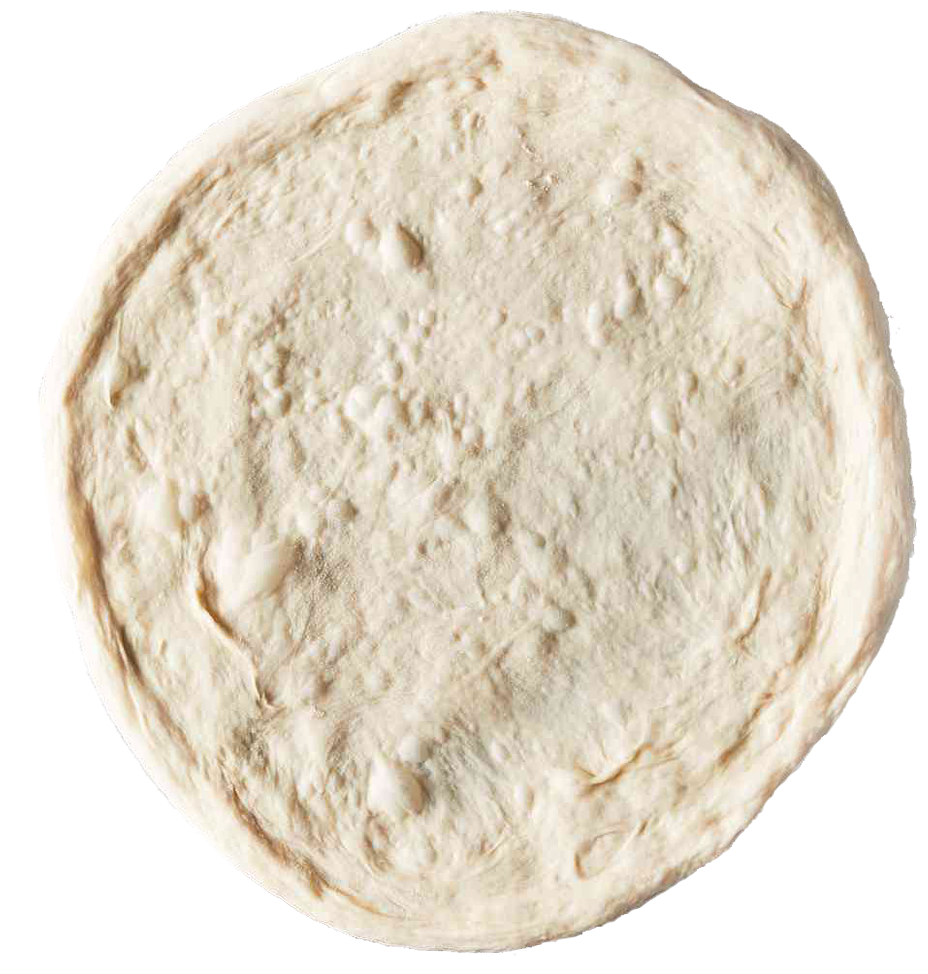
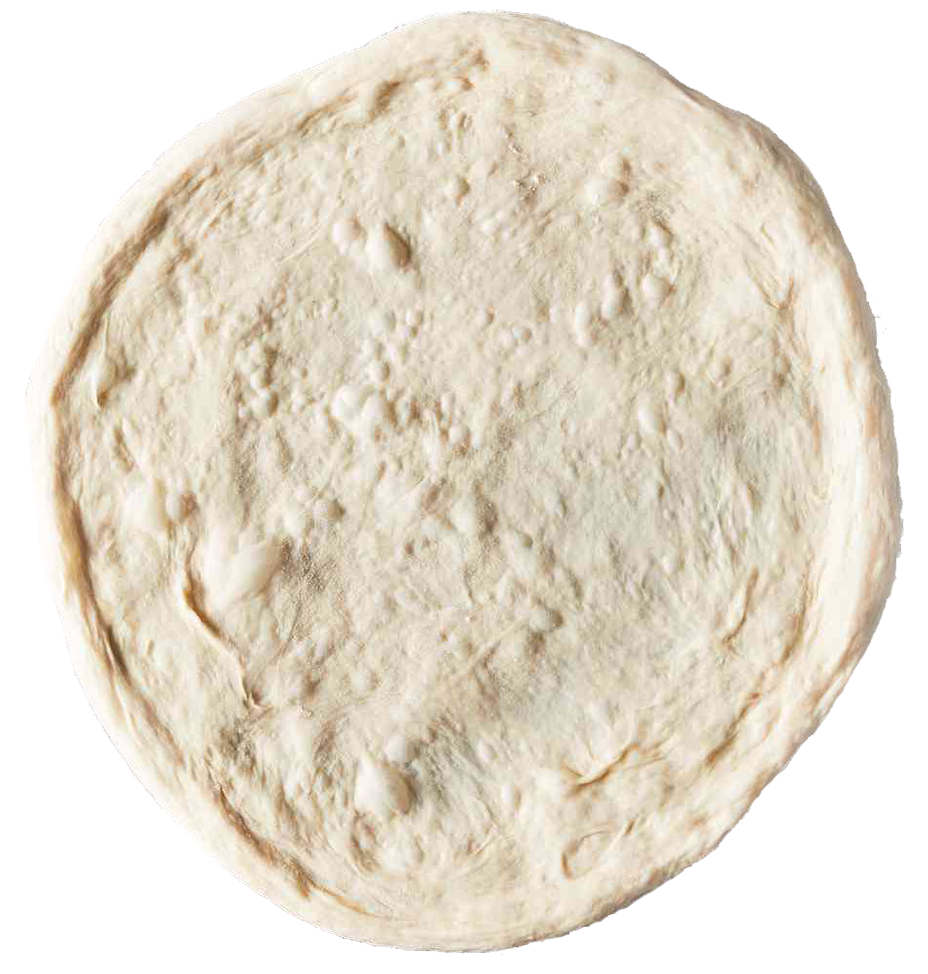
Added more toppings

Changed region(s): [[0.0312, 0.0, 1.0, 0.9856]]

diff --git a/assignment3/style.css b/assignment3/style.css
@@ -1,14 +1,12 @@
 :root {
-    --primary-bg-color: #ffffff;
-    --text-color: #000000;
-    --main-bg-color: #fdf0d8;
+    --text-color: #141414;
+    --main-bg-color: #FAF3E0;
     --main-text-color: #141414;
-    --main-btn-bg-color: #fff;
+    --btn-interact-text-color: #ffffff;
   }
 
-body {
+body {  
   background-color: var(--main-bg-color);
-  
 }
 
 body,
@@ -16,17 +14,16 @@ h1,
 h2,
 p {
   color: var(--text-color);
-  
-  font-family: Arial, Helvetica, sans-serif;
+  font-family: "Roboto", sans-serif;
 }
 
 header { /* Header styling */
   color: var(--main-text-color);
   font-family: 'Franklin Gothic Medium', 'Arial Narrow', Arial, sans-serif;
   font-weight: bolder;
-  font-size: 14px;
+  font-size: 16px;
   padding: 10px 0;
-  margin-bottom: 20px;
+  margin-bottom: 120px;
   letter-spacing: 12px;
   text-align: center;
 }
@@ -35,12 +32,12 @@ h1 {
   font-family: "Rock Salt", cursive;
   font-weight: 500;
   text-align: center;
-  font-size: 36px;
+  font-size: 66px;
 }
 
 h2 {
   font-size: 22px;
-  padding-top: 50px;
+  margin: 80px 0 10px;
   font-weight: bold;
   text-align: center;
 }
@@ -58,11 +55,11 @@ p {
 
 /* Styling for the base size price display */
 .price {
-  font-size: 1.5rem; 
   color: var(--main-text-color); 
   margin: 10px 0; /* Spacing above and below */
-  font-family: 'Koh Santepheap', sans-serif; 
+  font-family: "Roboto", sans-serif;
   text-align: center; 
+  font-weight: 400;
 }
 
 /* Styling for the total price including toppings */
@@ -70,30 +67,35 @@ p {
   font-size: 1.5rem;
   font-weight: bold;
   margin-top: 20px;
-  color: #333;
+  color: var(--main-text-color);
   text-align: center;
 }
 
 /* Size button styling */
 .size-button {
-  /* Width/height will be whatever the size in the buttons class is */
   width: var(--size); 
   height: var(--size);
   display: flex; /* Flexbox for centering text if needed */
-  align-items: center; /* Center vertically */
-  justify-content: center; /* Center horizontally */
+  align-items: center; /* Center numbers vertically */
+  justify-content: center; /* Center numbers horizontally */
   border-radius: 50%; /* Make it circular */
-  background-color: #f5f5f5; /* Background color */
-  margin: 10px; /* Add some space between buttons */
+  background-color: var(--main-bg-color); 
   cursor: pointer; /* Pointer cursor on hover */
   transition: background-color 0.3s; /* Smooth hover transition */
+  border: 4px solid #c29e7e; 
+  font-weight: bolder;
 }
 
-.size-button:hover {
-  background-color: #ece8a5; /* Change background on hover */
+.size-button:hover { /* Change styling on hover */
+  background-color: #7b967c; 
+  color: var(--btn-interact-text-color);
 }
 
-/* Size variations using custom properties */
+.size-button.selected { /* Change styling on click */
+  background-color: #b93742; 
+  color: var(--btn-interact-text-color);
+}
+
 .size-button.twelve {
   --size: 86px;
 }
@@ -111,11 +113,24 @@ p {
 }
 
 /* Trash/Checkout buttons */
+.price-container {
+  display: flex;              /* Use Flexbox for layout */
+  justify-content: space-between;  /* Distribute space between items */
+  align-items: center;       /* Center items vertically */
+  margin: 20px;             /* Add some margin if needed */
+}
+
+.total-price {
+  font-size: 24px;          /* Adjust font size for the total price */
+  font-weight: bold;        /* Make the total price bold */
+  margin: 0 20px;          /* Add margin on sides if needed */
+}
+
 .button-container {
   display: flex;
   justify-content: center; /* Buttons are centred on page */
   align-items: center; /* Buttons are aligned so their centrepoints are inline */
-  gap: 10px; /* Space between buttons */
+  gap: 5px; /* Space between buttons */
 }
 
 .button-container button {
@@ -130,14 +145,10 @@ p {
 }
 
 .centered-image { /* Creates a container for the text so that it can be aligned left but only as far as the width of the image*/
-    max-width: 700px; /* Width of image will not exceed 1000px. The image will be 800px as long as the screen width permits */ 
-    width: 100%; /* Width of image will always fit the width of the webpage in the case of a narrower screen width */ 
-    margin: 0 auto; /* Centres the image */ 
-    display: block;
-}
-
-.topping-thumbnails {
-  width: 10px;
+  max-width: 700px; /* Width of image will not exceed 1000px. The image will be 800px as long as the screen width permits */ 
+  width: 100%; /* Width of image will always fit the width of the webpage in the case of a narrower screen width */ 
+  margin: 0 auto; /* Centres the image */ 
+  display: block;
 }
 
 .topping-item {
@@ -169,13 +180,12 @@ p {
   display: flex;
   gap: 10px; /* Space between thumbnails */
   margin-bottom: 20px; /* Space below thumbnails */
-  justify-content: center; /* Center align if desired */
+  justify-content: center; 
 }
 
 /* Style for each thumbnail image */
 #topping-thumbnails img {
-  width: 50px; /* Small size for thumbnails */
-  height: auto; /* Maintain aspect ratio */
+  height: 60px; /* Small size for thumbnails */
   cursor: pointer; /* Change cursor on hover */
 }
 
@@ -189,7 +199,7 @@ p {
 /* Styles for the pizza dough container */
 #pizza-dough {
   position: relative;
-  width: 700px; /* Adjust width to fit the display */
+  max-width: 700px; /* Adjust width to fit the display */
   margin: 20px auto;
 }
 
@@ -216,12 +226,11 @@ p {
   pointer-events: none; /* Prevent interaction once dropped */
 }
 
-
 #checkout-button {
   display: block;
   margin: 20px auto;
   padding: 10px 20px;
-  background-color: #aa0c7b;
+  background-color: #085f2c;
   color: white;
   border: none;
   border-radius: 5px;
@@ -235,7 +244,7 @@ p {
   height: auto;
 }
 
-/* Modal styles */
+/* Styling for checkout popup */
 .modal {
   display: none; /* Hidden by default */
   position: fixed;
@@ -249,7 +258,7 @@ p {
 
 .modal-content {
   background-color: #fefefe;
-  margin: 15% auto; /* Centered vertically */
+  margin: 30% auto; /* Centered vertically */
   padding: 20px;
   border: 1px solid #888;
   width: 80%; /* Width of the modal */
@@ -271,4 +280,3 @@ p {
   text-decoration: none;
   cursor: pointer;
 }
-

diff --git a/assignment3/index.html b/assignment3/index.html
@@ -10,19 +10,21 @@
     <link rel="stylesheet" href="style.css" />
     <script src="script.js" defer></script>
 
+    <!-- Connecting google fonts -->
     <link rel="preconnect" href="https://fonts.googleapis.com">
     <link rel="preconnect" href="https://fonts.gstatic.com" crossorigin>
     <link href="https://fonts.googleapis.com/css2?family=Koh+Santepheap:wght@100;300;400;700;900&family=Rock+Salt&display=swap" rel="stylesheet">
+    <link href="https://fonts.googleapis.com/css2?family=Koh+Santepheap:wght@100;300;400;700;900&family=Roboto:ital,wght@0,100;0,300;0,400;0,500;0,700;0,900;1,100;1,300;1,400;1,500;1,700;1,900&family=Rock+Salt&display=swap" rel="stylesheet">
     
 </head>
 <body>
     <header>COAL OVEN PIZZERIA</header>
 
     <div class="pizza-title">
-        <h1>the 'you' pizza</h1>
+        <h1>The 'anything' pizza</h1>
     </div>
 
-    <h2>size</h2>
+    <h2>Size</h2>
     <div class="button-container">
         <div class="size-button twelve selected" onclick="selectSize(this)" data-price="7.95">12"</div>
         <div class="size-button fourteen" onclick="selectSize(this)" data-price="10.95">14"</div>
@@ -34,7 +36,7 @@
         $<span id="price"></span>
     </div>
 
-    <h2>toppings</h2>
+    <h2>Toppings</h2>
     <p>Build your pizza by dragging and dropping toppings</p>
     <div id="pizza-area">
         <div id="topping-thumbnails">
@@ -99,6 +101,16 @@
                 <div class="topping-price">$1.50</div>
             </div>
             <div class="topping-item">
+                <img src="ingredients/jalapeno-thumbnail.png" 
+                     draggable="true" 
+                     ondragstart="drag(event)" 
+                     data-overlay="toppings/jalapeno-overlay.png" 
+                     data-price="1" 
+                     alt="Jalapenos" 
+                     title="Jalapenos">
+                <div class="topping-price">$1</div>
+            </div>
+            <div class="topping-item">
                 <img src="ingredients/mushroom-thumbnail.png" 
                      draggable="true" 
                      ondragstart="drag(event)" 
@@ -107,6 +119,16 @@
                      alt="Mushroom" 
                      title="Mushroom">
                 <div class="topping-price">$1.50</div>
+            </div>
+            <div class="topping-item">
+                <img src="ingredients/basil-thumbnail.png" 
+                     draggable="true" 
+                     ondragstart="drag(event)" 
+                     data-overlay="toppings/basil-overlay.png" 
+                     data-price="0.50" 
+                     alt="Basil" 
+                     title="Basil">
+                <div class="topping-price">$0.50</div>
             </div>
         </div>
         <div id="pizza-dough" ondrop="drop(event)" ondragover="allowDrop(event)">
@@ -117,13 +139,18 @@
 
     
     <!-- Total price including toppings -->
-    <div id="topping-price-display" class="price">
-        $<span id="total-with-toppings"></span>
-    </div>
- 
-    <div class="button-container">
-        <button id="reset-button" onclick="resetPizza()"><img src="trash.png" alt="Reset" class="button-icon"></button>
-        <button id="checkout-button" onclick="showCheckout()"><img src="checkout.png" alt="Checkout" class="button-icon"></button>
+    <div class="price-container">
+        <button id="reset-button" onclick="resetPizza()">
+            <img src="trash.png" alt="Reset" class="button-icon">
+        </button>
+        
+        <div id="topping-price-display" class="total-price">
+            $<span id="total-with-toppings"></span>
+        </div>
+        
+        <button id="checkout-button" onclick="showCheckout()">
+            <img src="checkout.png" alt="Checkout" class="button-icon">
+        </button>
     </div>
 
     <!-- Modal for Final Price Popup -->
